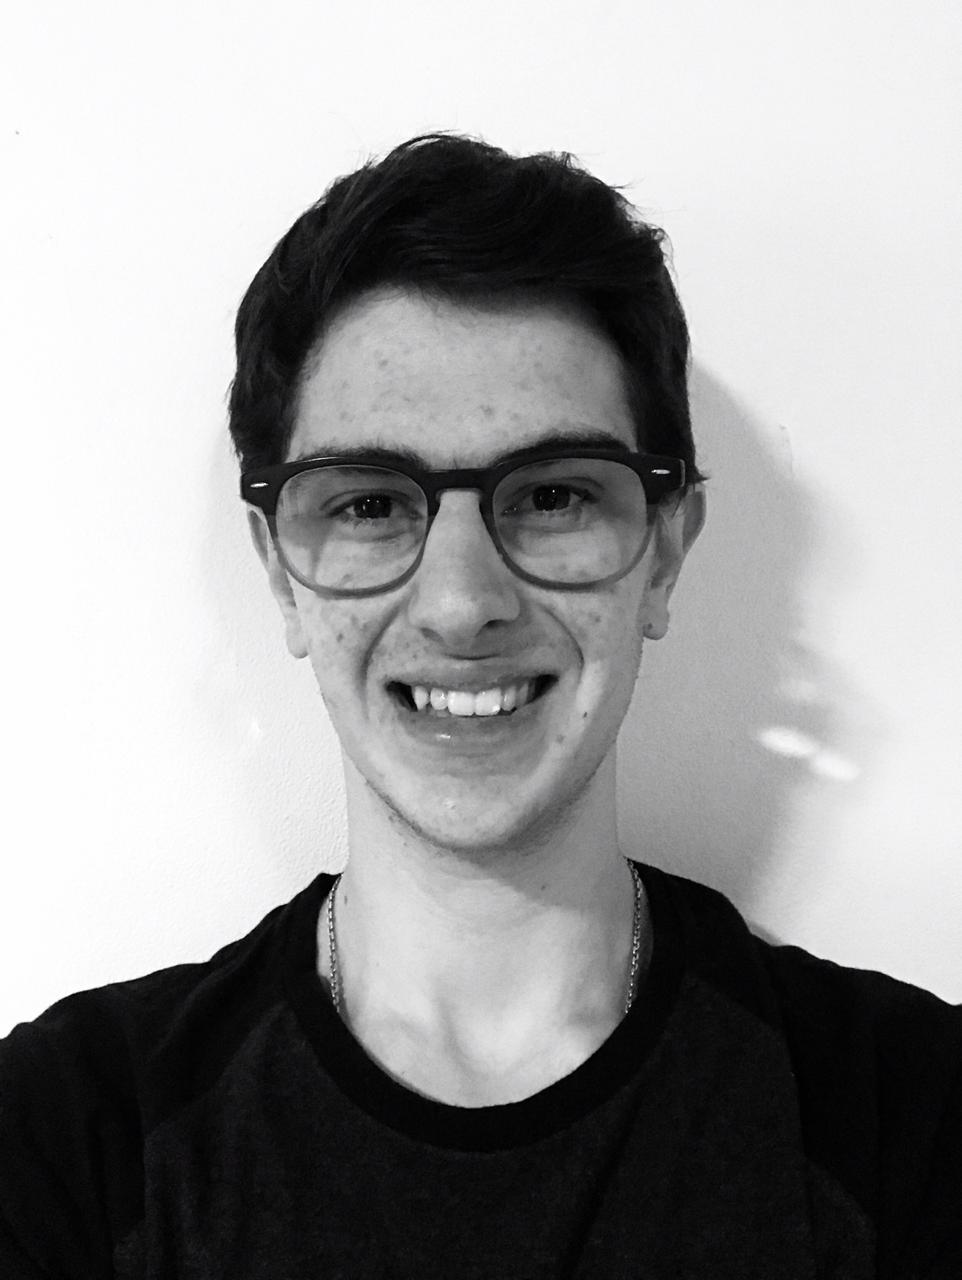
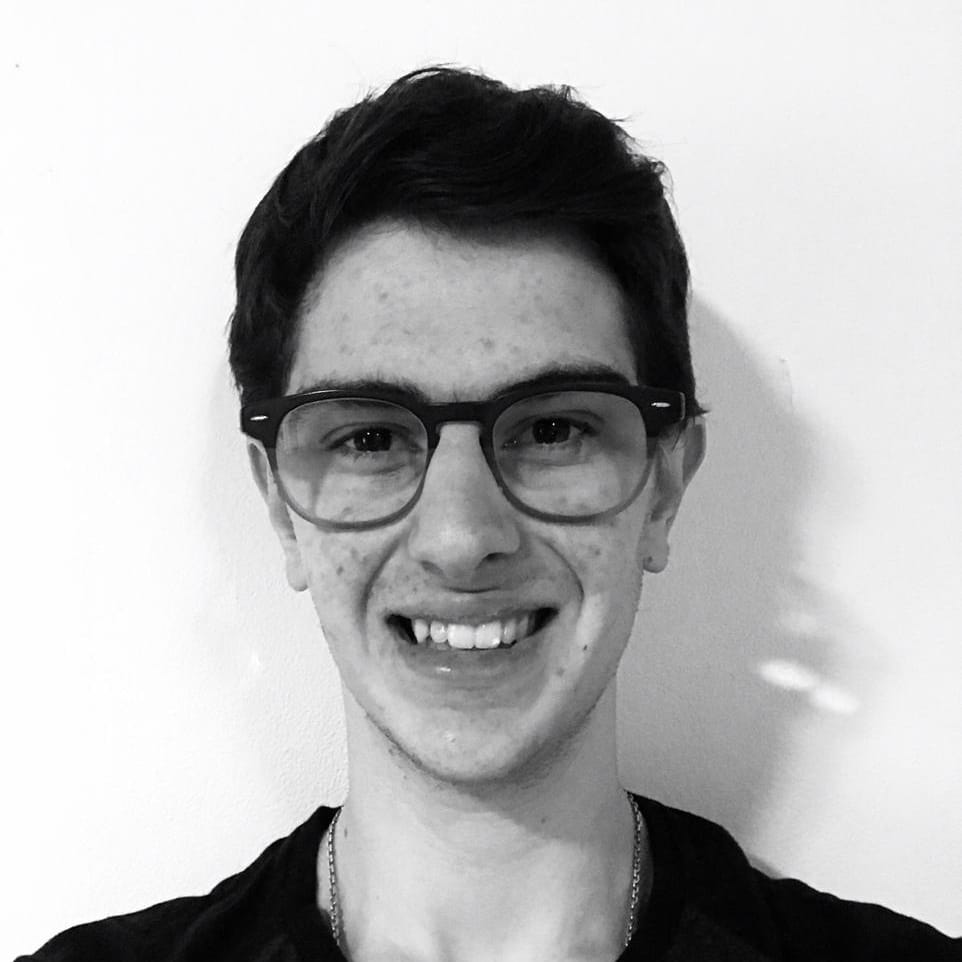
Terminada la vista de sobre nosotros

diff --git a/public/css/styles.css b/public/css/styles.css
@@ -805,12 +805,11 @@ a {
 .founder-description-1 {
   display: flex;
   align-items: center;
-  width: 50%;
   padding: 10px 10px;
 }
 
 .founder-description-1 img {
-  width: 100%;
+  width: 300px;
   height: auto;
   border-radius: 50px;
 }
